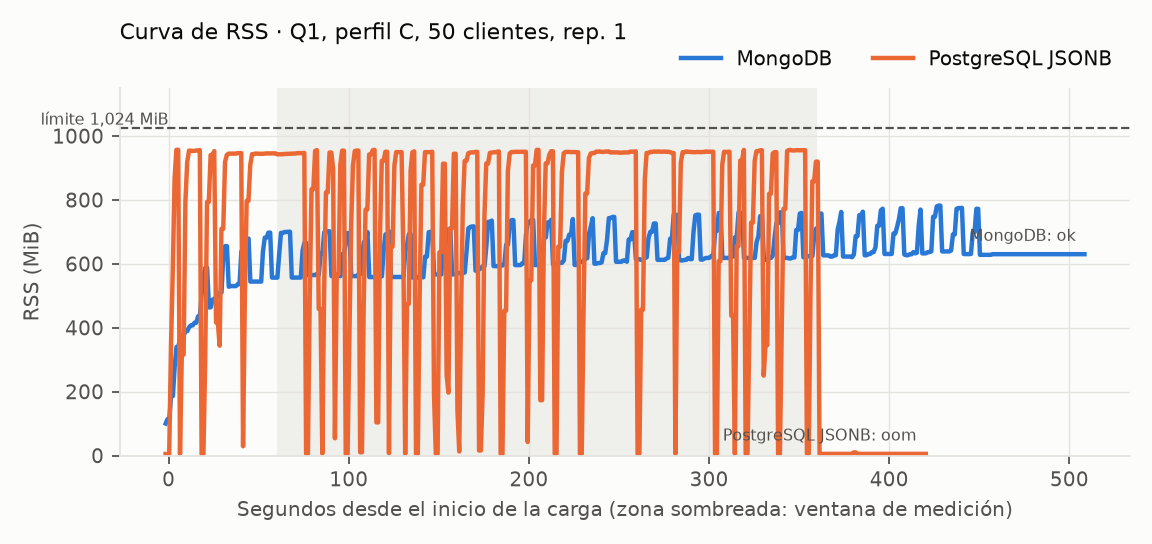
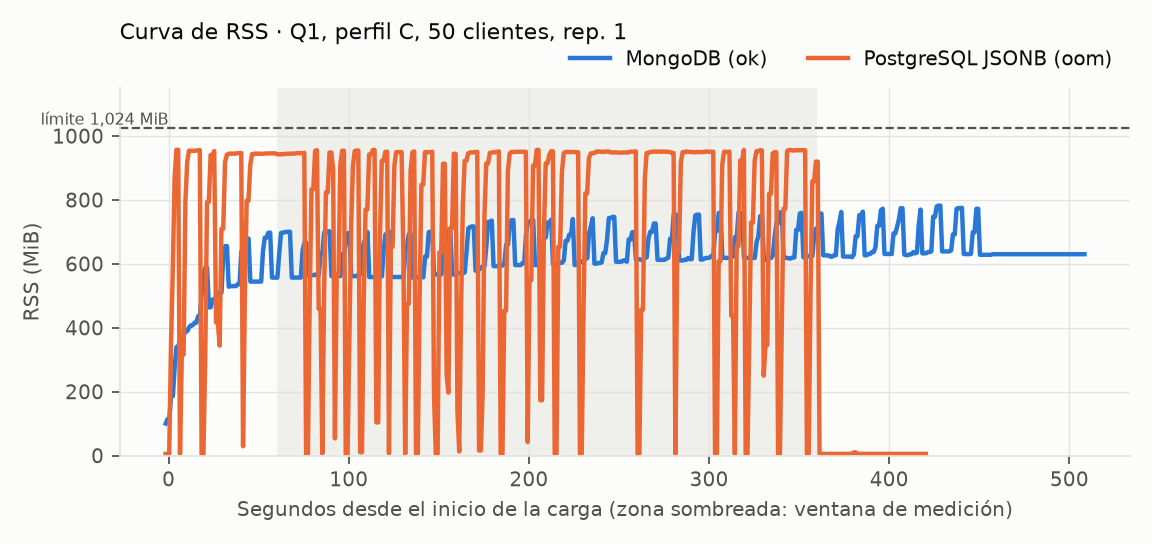
data(results): regenerar los consolidados con las gráficas corregidas

Changed region(s): [[0.5, 0.0938, 0.9688, 0.125], [0.625, 0.7812, 0.8125, 0.8125], [0.8438, 0.4062, 0.9375, 0.4688]]

diff --git a/results/piloto/resumen/celdas.md b/results/piloto/resumen/celdas.md
@@ -1,6 +1,6 @@
-Mediana de las repeticiones; entre paréntesis, mínimo–máximo. Latencias en ms. M3: Q1 lee 500,000 documentos por consulta y Q2 53,941.
+Mediana de las repeticiones; entre paréntesis, mínimo–máximo. Latencias en ms, solo de repeticiones completas (`ok` o `spill`). M3: Q1 lee 500,000 documentos por consulta y Q2 53,941.
 
-| Motor | Perfil | Consulta | Clientes | Estado | QPS | P95 | P99 | Throttling (s) | RSS máx (MiB) | Spill | Muestras mín. | CPU ms / 1k docs | RSS MiB / 1k docs |
-|---|---|---|---|---|---|---|---|---|---|---|---|---|---|
-| MongoDB | C | Q1 | 50 | ok×1 | 0.333 | 137,494.8 | 140,493.7 | 3,235.0 | 760.7 | false×1 | 100 | 6.01 | 0.030 |
-| PostgreSQL JSONB | C | Q1 | 50 | oom×1 | 0.000 | — | — | 3,103.8 | 957.2 | sin lectura×1 | 0 | — | — |
+| Motor | Perfil | Consulta | Clientes | Estado | QPS | P95 | P99 | Throttling (s) | RSS máx (MiB) | Working set máx (MiB) | Spill | Muestras mín. | CPU ms / 1k docs | RSS MiB / 1k docs |
+|---|---|---|---|---|---|---|---|---|---|---|---|---|---|---|
+| MongoDB | C | Q1 | 50 | ok×1 | 0.333 | 137,494.8 | 140,493.7 | 3,235.0 | 760.7 | 965.6 | false×1 | 100 | 6.01 | 0.030 |
+| PostgreSQL JSONB | C | Q1 | 50 | oom×1 | 0.000 | — | — | 3,103.8 | 957.2 | 1,022.7 | sin lectura×1 | 0 | — | — |
